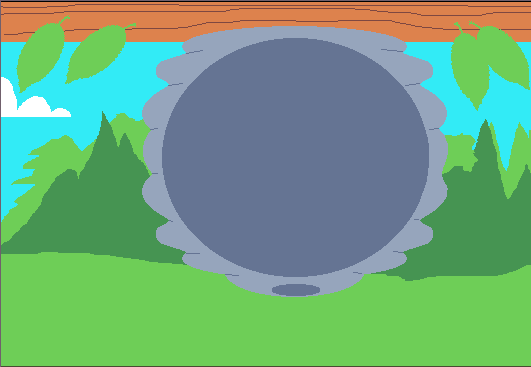
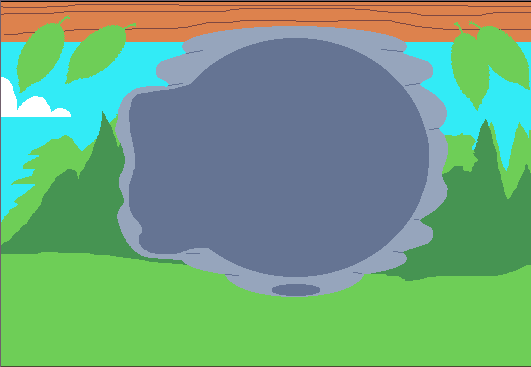
Moving jobs panel

Changed region(s): [[0.2109, 0.2098, 0.3917, 0.7193]]

diff --git a/main.js b/main.js
@@ -215,16 +215,9 @@ function setup() {
   backgroundScene = Sprite.fromImage('images/scene/background-summer.png')
   background.addChild(backgroundScene)
 
-  /*
-  const beehive = new Graphics()
-  beehive.beginFill(0xffc83f)
-  beehive.drawRect(470 / 2, 190 / 2, 120, 120)
-  background.addChild(beehive)
-  */
-  
   const jobsPanel = Sprite.fromImage('ui-jobs-panel.png')
-  jobsPanel.position.x = 0
-  jobsPanel.position.y = 100
+  jobsPanel.position.x = 140
+  jobsPanel.position.y = 95
   background.addChild(jobsPanel)
 
   const unassignedText = new PIXI.Text('-', { ...fontConfig, fill: 'black' })
@@ -392,8 +385,8 @@ function createFlowers() {
     makeSelectable(flower, 'flower')
     flower.scale.x = flipped ? -1 : 1
     flower.anchor.set(flipped ? 0.55 : 0.27, 0.2)
-    flower.position.x = (WIDTH / 4) + positions[f] //35 + (f * 70 + Math.round(Math.random() * 40))
-    flower.position.y = 330 // HEIGHT - 100 // 320
+    flower.position.x = (WIDTH / 4) + positions[f]
+    flower.position.y = 330
     background.addChild(flower)
 
     flowers.push(flower)
@@ -436,6 +429,12 @@ function createMap(m) {
   createQueen(beeContainer)
    
   if (m === 'default') {
+    createBee(beeContainer, 'nurser')
+    createBee(beeContainer, 'forager').setPollen(20)
+    createBee(beeContainer, 'worker')
+  }
+
+  if (m === 'honey-deposits') {
     createBee(beeContainer, 'nurser')
     createBee(beeContainer, 'forager').setPollen(20)
     createBee(beeContainer, 'worker')
@@ -749,7 +748,7 @@ function getIdlePosition(type) {
   const filteredBees = bees.filter(x => x.type === type)
   
   return {
-    x: 68 - (filteredBees.length % beesPerRow * 11),
+    x: 200 - (filteredBees.length % beesPerRow * 11),
     y: y + (Math.floor(filteredBees.length / beesPerRow) * 10)
   }
 }
